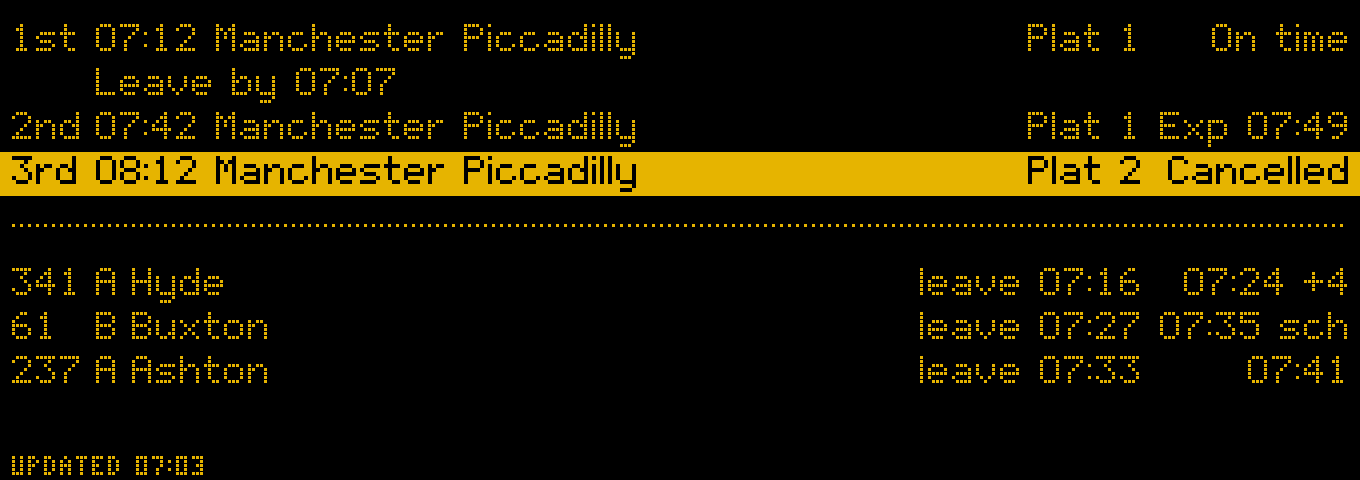
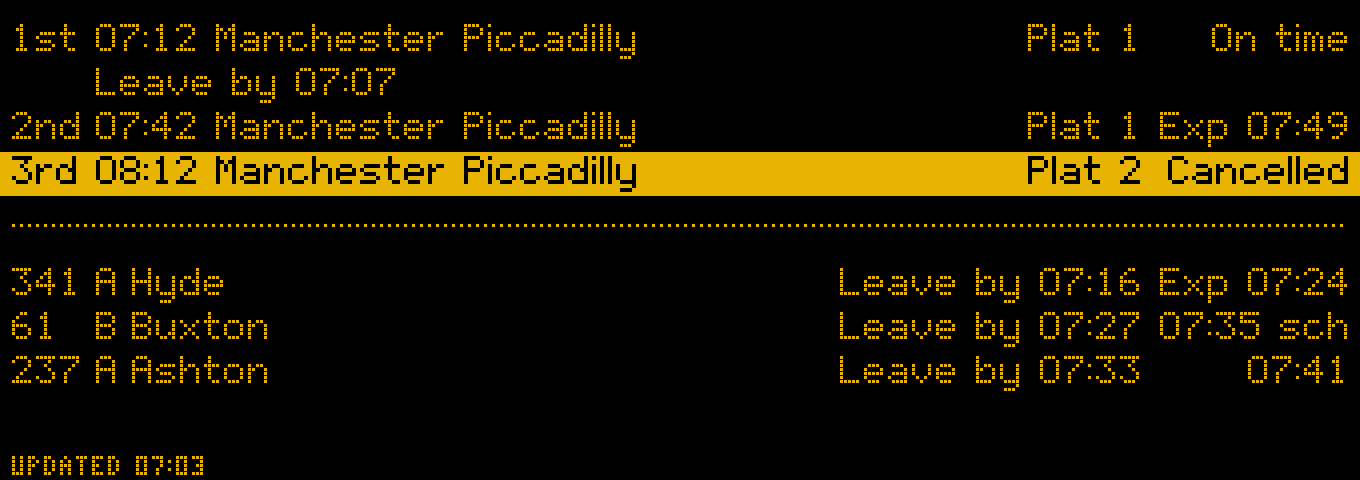
docs(images): redraw the board pictures with the current words
The station board look's pictures still showed the old status words
("leave 07:16", "07:24 +4", "leave in 3 min"). They are redrawn from the
current code with the demo's sample data, each on its original panel,
look, options and scale: the pHAT pictures three times size, dot for dot.
The bus position page now uses the emulator's six stops and says
"Exp 07:24" and "Leave in 3 min".

tools/build_doc_images.py draws them all, so they can be redrawn after
the next change to the board's look; its output is the same on every run.
phat-plain.png, already redrawn for 4vr.13, comes out byte for byte the
same.

Bead: inky-departures-4vr.14

diff --git a/tools/build_doc_images.py b/tools/build_doc_images.py
@@ -1,0 +1,88 @@
+"""Draws the board pictures in docs/images/ from the sample data.
+
+    .venv/bin/python tools/build_doc_images.py
+
+Run it after a change to how the board looks, then look at each picture and
+commit them. The departures pictures are `departureboard demo`; the pHAT ones
+are scaled up three times, dot for dot, so they read on a web page. The bus
+position page is drawn here, as the board draws it, for the demo's 341 with
+the emulator's stops and the bus three stops away.
+"""
+
+from __future__ import annotations
+
+import sys
+import tempfile
+from pathlib import Path
+
+from PIL import Image
+
+ROOT = Path(__file__).resolve().parents[1]
+sys.path.insert(0, str(ROOT / "src"))
+
+from departureboard.board.displays.display import DISPLAY_PANELS, PngDisplay  # noqa: E402
+from departureboard.board.route import RouteView, where  # noqa: E402
+from departureboard.board.themes import theme_named  # noqa: E402
+from departureboard.board.view import build_view  # noqa: E402
+from departureboard.cli.main import main  # noqa: E402
+from departureboard.core.model import Departure, Status  # noqa: E402
+from departureboard.core.walk import WalkTimes  # noqa: E402
+from departureboard.emulator.fake import DEMO_STRIP, DEMO_TITLE  # noqa: E402
+
+IMAGES = ROOT / "docs" / "images"
+
+# name: (demo options, scale)
+DEMOS = {
+    "preview.png": (["--display", "inky", "--theme", "sign"], 1),
+    "phat-sign.png": (["--display", "inky", "--theme", "sign"], 3),
+    "phat-rain.png": (["--display", "inky", "--theme", "sign", "--rain"], 3),
+    "phat-notice.png": (["--display", "inky", "--theme", "sign", "--notice"], 3),
+    "phat-plain.png": (["--display", "inky", "--theme", "plain"], 3),
+    "epaper-10in85.png": (["--display", "waveshare-10in85g", "--theme", "sign"], 1),
+    "screen-departures.png": (["--display", "hdmi-1280x400", "--theme", "sign"], 1),
+}
+
+
+def keep(drawn: Path, scale: int = 1) -> None:
+    """Copies a drawn picture into docs/images/, scaled dot for dot and compressed."""
+    image = Image.open(drawn)
+    if scale != 1:
+        image = image.resize((image.width * scale, image.height * scale), Image.Resampling.NEAREST)
+    image.save(IMAGES / drawn.name, optimize=True)
+    print(f"Wrote {IMAGES / drawn.name}")
+
+
+def draw_demo(drawn: Path, options: list[str]) -> None:
+    if main(["demo", "--png", str(drawn), *options]) != 0:
+        raise SystemExit(f"demo failed for {drawn.name}")
+
+
+def draw_bus_page(drawn: Path) -> None:
+    """The second page on the screen, a little after the departures picture."""
+    clock = "07:12:40"
+    bus = Departure("bus", "341", "Hyde", "07:20", "07:24", Status.LATE, stop="A")
+    view = build_view(DEMO_TITLE, [], [bus], clock[:5], set(), WalkTimes(train=5, bus={"*": 8}),
+                      theme_named("sign").wording, clock)
+    row = view.buses.rows[0]
+    stops = tuple(s.name for s in DEMO_STRIP.stops)
+    bus_at = 2.45  # between Grapes Inn and Sunlaws Street
+    route = RouteView(f"{bus.service} to {bus.destination}", row.right, row.leave, stops, bus_at,
+                      where(stops, bus_at, stale=False), clock)
+    theme = theme_named("sign")
+    display = PngDisplay(drawn, theme.accent, DISPLAY_PANELS["hdmi-1280x400"])
+    display.show(theme.render_route(route, display.palette, display.panel))
+
+
+def run() -> None:
+    with tempfile.TemporaryDirectory() as scratch:
+        for name, (options, scale) in DEMOS.items():
+            drawn = Path(scratch) / name
+            draw_demo(drawn, options)
+            keep(drawn, scale)
+        drawn = Path(scratch) / "screen-bus.png"
+        draw_bus_page(drawn)
+        keep(drawn)
+
+
+if __name__ == "__main__":
+    run()
